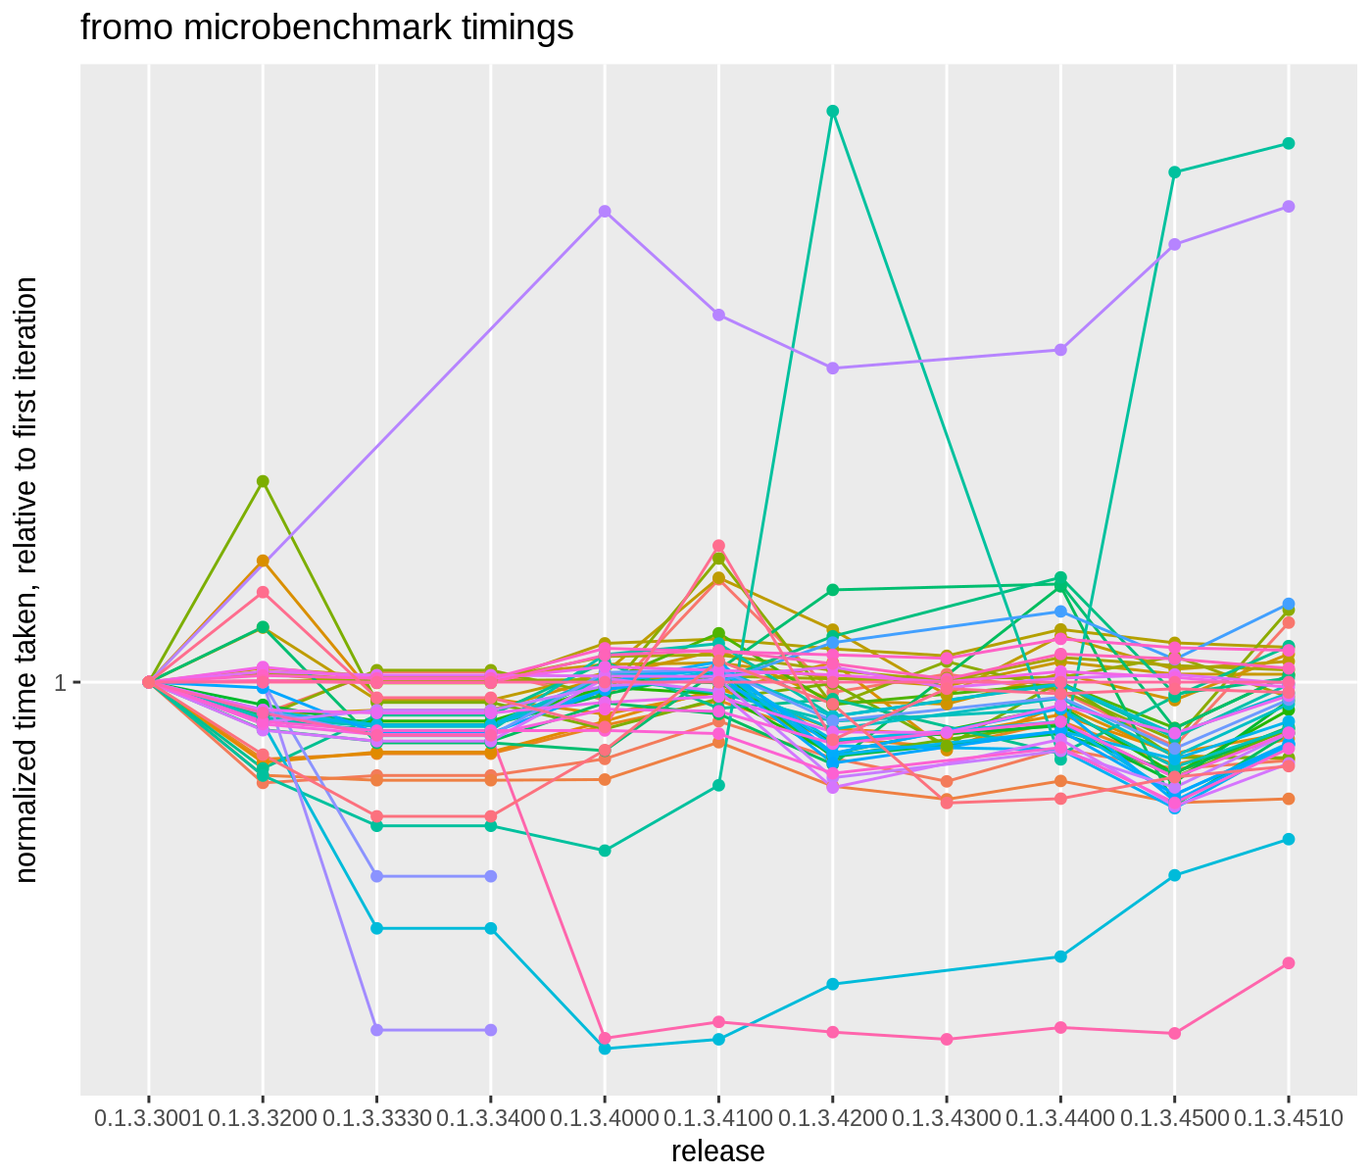
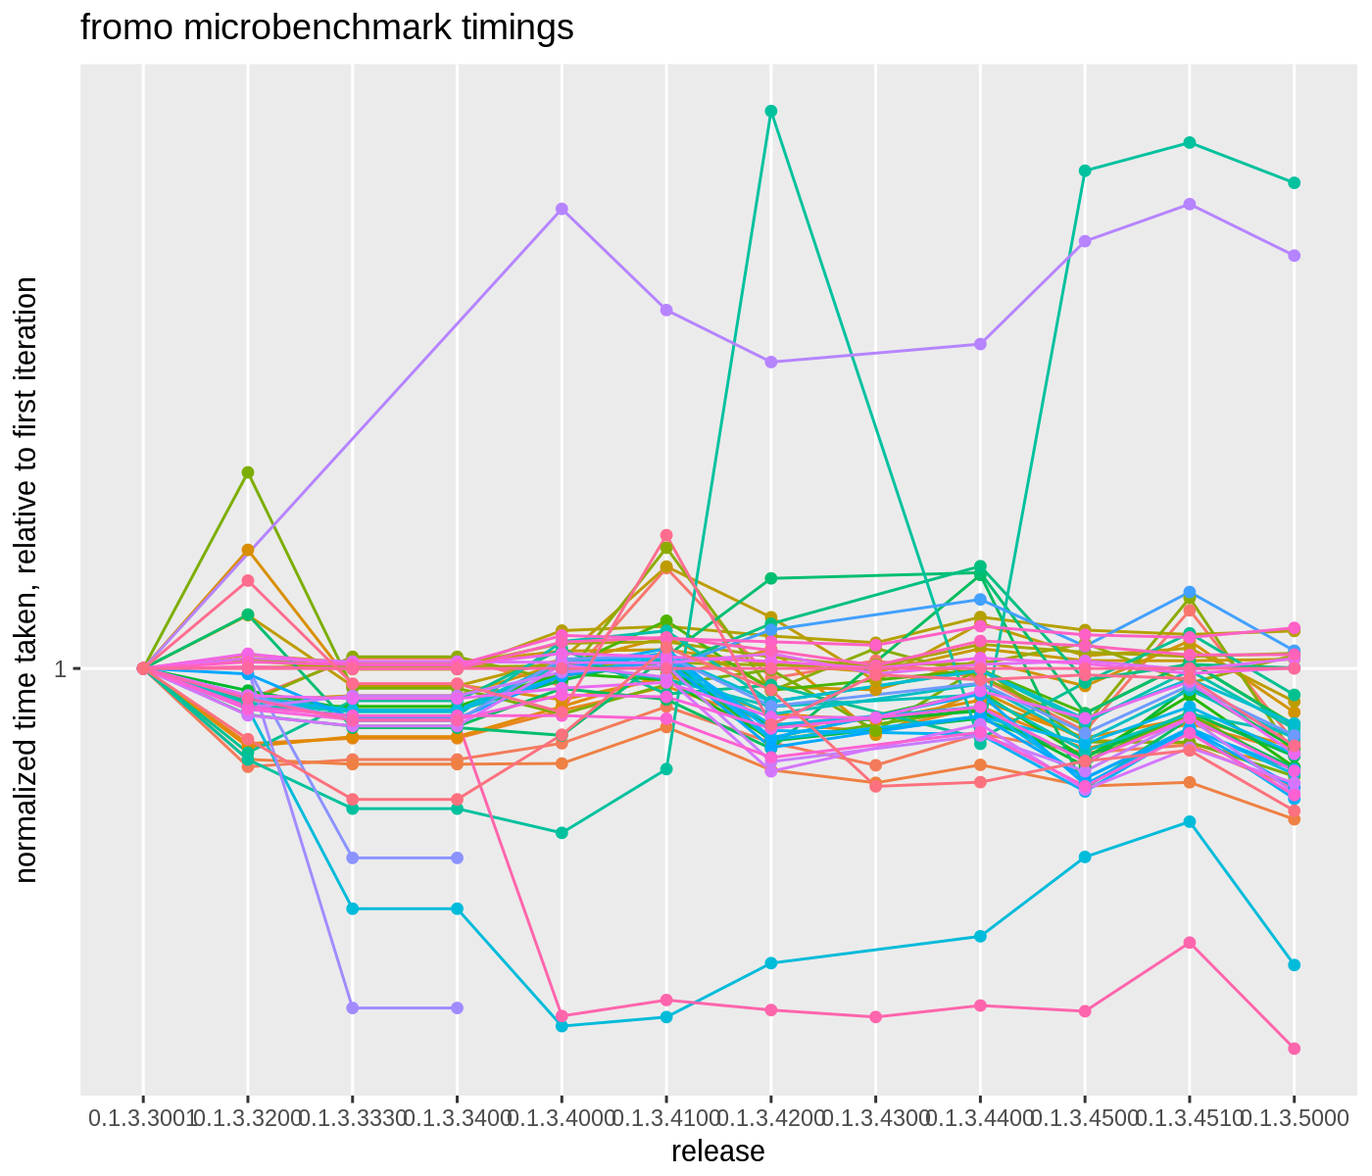
timings for object version...

diff --git a/nodist/timings.md b/nodist/timings.md
@@ -25,7 +25,7 @@ print(Sys.info())
 ##                                       sysname                                       release                                       version 
 ##                                       "Linux"                            "4.4.0-77-generic" "#98-Ubuntu SMP Wed Apr 26 08:34:02 UTC 2017" 
 ##                                      nodename                                       machine                                         login 
-##                                "28f6ec8a4353"                                      "x86_64"                                     "unknown" 
+##                                "b70aaf3783fc"                                      "x86_64"                                     "unknown" 
 ##                                          user                                effective_user 
 ##                                        "spav"                                        "spav"
 ```
@@ -49,7 +49,7 @@ print(sessionInfo())
 ## 
 ## other attached packages:
 ##  [1] RcppParallel_4.3.20    RcppRoll_0.2.2         roll_1.0.7             RollingWindow_0.2      microbenchmark_1.4-2.1 moments_0.14          
-##  [7] dplyr_0.5.0            ggplot2_2.2.1          knitr_1.15.1           fromo_0.1.3.4510      
+##  [7] dplyr_0.5.0            ggplot2_2.2.1          knitr_1.15.1           fromo_0.1.3.5000      
 ## 
 ## loaded via a namespace (and not attached):
 ##  [1] Rcpp_0.12.11     grDevices_3.3.0  assertthat_0.1   R6_2.1.2         grid_3.3.0       plyr_1.8.4       DBI_0.6-1        gtable_0.2.0     formatR_1.4     
@@ -77,16 +77,16 @@ print(checkit)
 
 ```
 ## Unit: microseconds
-##         expr   min    lq  mean median    uq   max neval    cld
-##       sum(x)    80    80    87     81    89   155   100 a     
-##      mean(x)   162   164   175    167   175   338   100 ab    
-##        sd(x)   460   466   507    486   525   855   100  b    
-##  skewness(x)  8281  8376  9011   8630  9201 12163   100    d  
-##  kurtosis(x)  8109  8209  8828   8480  9173 11952   100    d  
-##       sd3(x)   849   856   909    876   941  1083   100   c   
-##     skew4(x)  8540  8616  9128   8813  9432 12141   100    d  
-##     kurt5(x) 15406 15565 16286  15832 16509 21590   100     e 
-##     dumbk(x) 17062 17446 18644  18067 19574 23281   100      f
+##         expr   min    lq  mean median    uq   max neval     cld
+##       sum(x)    80    87    93     90    98   141   100 a      
+##      mean(x)   168   183   198    195   208   314   100 a      
+##        sd(x)   489   524   554    538   570   778   100  b     
+##  skewness(x)  8522  9123  9610   9359  9913 13839   100    d   
+##  kurtosis(x)  8191  8963  9474   9162  9716 14485   100    d   
+##       sd3(x)   862   941   981    955  1015  1224   100   c    
+##     skew4(x)  8850  9651  9930   9780 10056 11819   100     e  
+##     kurt5(x) 16020 16976 17486  17222 17585 21824   100      f 
+##     dumbk(x) 17403 18958 19935  19343 20803 25003   100       g
 ```
 
 ```r
@@ -111,9 +111,9 @@ print(checkit)
 ```
 ## Unit: microseconds
 ##                                                                          expr   min    lq  mean median    uq   max neval cld
-##  cent_moments(x, max_order = 4, wts = w, na_rm = TRUE, normalize_wts = FALSE) 16268 16590 18613  18033 19720 28964   100   c
-##                                                               sd3(x, wts = w)   981  1000  1109   1082  1149  1568   100 a  
-##                                                                 slow_sd(x, w)  1415  1563  2374   2030  3236  5290   100  b
+##  cent_moments(x, max_order = 4, wts = w, na_rm = TRUE, normalize_wts = FALSE) 16495 16622 16981  16725 17062 19797   100   c
+##                                                               sd3(x, wts = w)   980   983  1010    991  1014  1172   100 a  
+##                                                                 slow_sd(x, w)  1389  1424  2009   1494  2788  3977   100  b
 ```
 
 ```r
@@ -134,10 +134,10 @@ print(checkit)
 ```
 ## Unit: microseconds
 ##                expr  min   lq mean median   uq  max neval  cld
-##  as.centsums(x1, 1)  191  197  209    198  223  296   100  b  
-##  as.centsums(x1, 2)  114  115  125    117  130  320   100 a   
-##  as.centsums(x1, 3)  859  864  914    870  924 1216   100   c 
-##  as.centsums(x1, 4) 1504 1507 1585   1523 1559 2153   100    d
+##  as.centsums(x1, 1)  193  194  203    195  209  258   100  b  
+##  as.centsums(x1, 2)  114  115  123    117  126  309   100 a   
+##  as.centsums(x1, 3)  881  886  915    899  944 1003   100   c 
+##  as.centsums(x1, 4) 1529 1537 1583   1557 1599 1858   100    d
 ```
 
 ```r
@@ -156,7 +156,7 @@ print(checkit)
 ```
 ## Unit: microseconds
 ##           expr min lq mean median uq max neval cld
-##  c(obj1, obj2)  14 15   18     16 16 178   100   b
+##  c(obj1, obj2)  14 15   19     15 16 193   100   b
 ##  obj3 %-% obj1  11 12   14     12 13  93   100  a
 ```
 
@@ -177,9 +177,9 @@ print(checkit)
 ```
 ## Unit: microseconds
 ##                        expr min  lq mean median  uq max neval cld
-##    join_cent_sums(rs1, rs2) 2.3 2.4  2.9    2.5 2.7  27   100   a
-##  unjoin_cent_sums(rs3, rs2) 2.0 2.2  2.5    2.2 2.5  17   100   a
-##  unjoin_cent_sums(rs3, rs1) 2.0 2.2  2.5    2.3 2.5  14   100   a
+##    join_cent_sums(rs1, rs2) 2.1 2.3  2.8    2.4 2.6  25   100   a
+##  unjoin_cent_sums(rs3, rs2) 1.9 2.0  2.3    2.1 2.3  15   100   a
+##  unjoin_cent_sums(rs3, rs1) 1.9 2.0  2.3    2.1 2.3  14   100   a
 ```
 
 ```r
@@ -211,8 +211,8 @@ print(checkit)
 ```
 ## Unit: microseconds
 ##                        expr min lq mean median uq max neval cld
-##  as.centcosums(x1, max_ord)  55 59   75     66 78 228   100   b
-##             mobj3 %-% mobj1  18 21   26     23 27  70   100  a
+##  as.centcosums(x1, max_ord)  51 55   60     56 64 154   100   b
+##             mobj3 %-% mobj1  16 18   20     19 20  41   100  a
 ```
 
 ```r
@@ -273,33 +273,33 @@ print(checkit)
 ```
 ## Unit: microseconds
 ##                                                           expr   min    lq  mean median    uq    max neval         cld
-##                         silly_fun(x, wins, sum, na.rm = FALSE) 32123 33664 38030  35450 40129 111857   100          j 
-##                        silly_fun(x, wins, mean, na.rm = FALSE) 64396 66983 74071  69176 76926 159247   100           k
-##                                           running_sum(x, wins)   104   108   121    115   129    202   100 a          
-##                                          running_mean(x, wins)   105   109   148    118   130   2303   100 ab         
-##                                       roll::roll_sum(xm, wins)  1862  1938  2138   2009  2172   4060   100  bc e      
-##                                      roll::roll_mean(xm, wins)  2026  2124  2384   2209  2450   6452   100    de      
-##                                        roll::roll_sd(xm, wins)  5676  5796  6174   5883  6527   8151   100       g    
-##       RollingWindow::RollingSum(x, wins, na_method = "ignore")   359   386   654    433   568   3053   100 a cd       
-##                             RollingWindow::RollingSum(x, wins)   110   131  1019    160   205  76877   100 a cd       
-##                            RollingWindow::RollingMean(x, wins)   141   157   279    197   245   2571   100 a c        
-##                             RollingWindow::RollingStd(x, wins)   225   251   395    286   328   2586   100 a cd       
-##   RcppRoll::roll_sum(xm, n = wins, align = "right", fill = NA)  1750  1945  2150   2020  2257   4974   100   c e      
-##  RcppRoll::roll_mean(xm, n = wins, align = "right", fill = NA)  1730  1977  2120   2038  2255   4136   100  bc e      
-##    RcppRoll::roll_sd(xm, n = wins, align = "right", fill = NA) 10368 11042 12463  12605 13183  20783   100        h   
-##    running_sd(x, wins, na_rm = FALSE, restart_period = 50000L)   355   361   417    390   413   2248   100 a cd       
-##      running_sd(x, wins, na_rm = TRUE, restart_period = 1000L)   410   425   481    452   489    855   100 a cd       
-##                                           running_sd3(x, wins)   586   597   668    638   682   1276   100 a cd       
-##                                          running_skew(x, wins)  3631  3684  4091   3831  4257   5866   100     ef     
-##                                         running_skew4(x, wins)  3639  3683  4047   3789  4091   7580   100     ef     
-##                                          running_kurt(x, wins)  5320  5367  5889   5473  6215   9933   100      fg    
-##                                         running_kurt5(x, wins)  5949  6017  6507   6154  6626  10240   100       g    
-##                                         running_tstat(x, wins)   620   638   731    676   720   3376   100 a cd       
-##                                       running_zscored(x, wins)   625   631   698    659   709   1250   100 a cd       
-##                                        running_sharpe(x, wins)   620   628   706    674   716   1274   100 a cd       
-##                                    running_apx_median(x, wins) 13901 14181 15592  15034 16280  24211   100         i  
-##                                      running_centered(x, wins)   549   555   608    589   626    885   100 a cd       
-##                                        running_scaled(x, wins)   621   629   694    657   713   1201   100 a cd
+##                         silly_fun(x, wins, sum, na.rm = FALSE) 32568 33038 35422  34956 35765 109978   100          j 
+##                        silly_fun(x, wins, mean, na.rm = FALSE) 64438 65544 70321  67541 68981 149314   100           k
+##                                           running_sum(x, wins)   105   108   115    111   120    165   100 a          
+##                                          running_mean(x, wins)   104   108   115    111   119    153   100 a          
+##                                       roll::roll_sum(xm, wins)  1897  1937  2046   1977  2037   4224   100   cd       
+##                                      roll::roll_mean(xm, wins)  2064  2103  2225   2161  2219   4403   100    de      
+##                                        roll::roll_sd(xm, wins)  5719  5785  5981   5849  5906   9198   100       g    
+##       RollingWindow::RollingSum(x, wins, na_method = "ignore")   367   391   609    410   450   2984   100 a  d       
+##                             RollingWindow::RollingSum(x, wins)   118   137   995    156   185  78855   100 a  d       
+##                            RollingWindow::RollingMean(x, wins)   146   167   259    183   225   2489   100 ab         
+##                             RollingWindow::RollingStd(x, wins)   230   255   417    270   319   2743   100 abc        
+##   RcppRoll::roll_sum(xm, n = wins, align = "right", fill = NA)  1747  1840  1961   1957  2011   2379   100  b d       
+##  RcppRoll::roll_mean(xm, n = wins, align = "right", fill = NA)  1734  1982  1999   2025  2053   2359   100  b d       
+##    RcppRoll::roll_sd(xm, n = wins, align = "right", fill = NA) 10298 10691 11579  11170 12652  14668   100        h   
+##    running_sd(x, wins, na_rm = FALSE, restart_period = 50000L)   356   362   401    370   392   2525   100 abc        
+##      running_sd(x, wins, na_rm = TRUE, restart_period = 1000L)   416   423   441    430   452    651   100 abc        
+##                                           running_sd3(x, wins)   597   607   652    622   647   2815   100 a  d       
+##                                          running_skew(x, wins)  3680  3698  3837   3752  3845   5757   100     e      
+##                                         running_skew4(x, wins)  3693  3731  3869   3768  3909   6130   100     ef     
+##                                          running_kurt(x, wins)  5389  5443  5649   5502  5743   7684   100      fg    
+##                                         running_kurt5(x, wins)  6012  6053  6299   6117  6393   8775   100       g    
+##                                         running_tstat(x, wins)   628   637   662    648   676    788   100 a  d       
+##                                       running_zscored(x, wins)   631   639   689    651   676   2990   100 a  d       
+##                                        running_sharpe(x, wins)   626   633   663    647   682    829   100 a  d       
+##                                    running_apx_median(x, wins) 14042 14167 14641  14261 14838  17958   100         i  
+##                                      running_centered(x, wins)   587   594   620    604   637    748   100 a  d       
+##                                        running_scaled(x, wins)   627   636   669    654   686    850   100 a  d
 ```
 
 ```r
@@ -371,55 +371,55 @@ allt %>% select(-sernum, -relchange, -meantime, -sumx_time,
 
 |expr                                                                         | first_norm| last_norm| last_status|
 |:----------------------------------------------------------------------------|----------:|---------:|-----------:|
-|RollingWindow::RollingSum(x, wins)                                           |       3.72|     11.66|        3.14|
-|running_sum(x, wins)                                                         |       0.51|      1.39|        2.74|
-|running_skew(x, wins)                                                        |      39.66|     46.83|        1.18|
-|mobj3 %-% mobj1                                                              |       0.26|      0.30|        1.17|
-|as.centcosums(x1, max_ord)                                                   |       0.75|      0.85|        1.13|
-|RollingWindow::RollingSum(x, wins, na_method = "ignore")                     |       6.93|      7.48|        1.08|
-|kurt5(x)                                                                     |     173.12|    186.41|        1.08|
-|skew4(x)                                                                     |      97.66|    104.48|        1.07|
-|cent_moments(x, max_order = 4, wts = w, na_rm = TRUE, normalize_wts = FALSE) |     200.65|    213.04|        1.06|
-|join_cent_sums(rs1, rs2)                                                     |       0.03|      0.03|        1.05|
-|skewness(x)                                                                  |     100.16|    103.15|        1.03|
-|kurtosis(x)                                                                  |      98.46|    101.05|        1.03|
-|dumbk(x)                                                                     |     209.85|    213.40|        1.02|
-|RollingWindow::RollingMean(x, wins)                                          |       3.15|      3.19|        1.02|
-|RcppRoll::roll_sd(xm, n = wins, align = "right", fill = NA)                  |     140.59|    142.65|        1.01|
-|RollingWindow::RollingStd(x, wins)                                           |       4.48|      4.52|        1.01|
+|RollingWindow::RollingSum(x, wins)                                           |       3.72|     10.68|        2.87|
+|running_sum(x, wins)                                                         |       0.51|      1.24|        2.45|
+|skew4(x)                                                                     |      97.66|    106.66|        1.09|
+|kurt5(x)                                                                     |     173.12|    187.82|        1.08|
+|running_skew(x, wins)                                                        |      39.66|     41.21|        1.04|
+|kurtosis(x)                                                                  |      98.46|    101.76|        1.03|
+|skewness(x)                                                                  |     100.16|    103.22|        1.03|
+|mean(x)                                                                      |       2.07|      2.13|        1.03|
+|sd(x)                                                                        |       5.82|      5.95|        1.02|
+|dumbk(x)                                                                     |     209.85|    214.12|        1.02|
+|sd3(x)                                                                       |      10.52|     10.54|        1.00|
+|RollingWindow::RollingStd(x, wins)                                           |       4.48|      4.48|        1.00|
 |sum(x)                                                                       |       1.00|      1.00|        1.00|
-|sd(x)                                                                        |       5.82|      5.81|        1.00|
-|running_apx_median(x, wins)                                                  |     179.28|    178.47|        1.00|
-|sd3(x)                                                                       |      10.52|     10.41|        0.99|
-|unjoin_cent_sums(rs3, rs1)                                                   |       0.03|      0.03|        0.98|
-|running_kurt5(x, wins)                                                       |      76.25|     74.48|        0.98|
-|sd3(x, wts = w)                                                              |      13.06|     12.69|        0.97|
-|mean(x)                                                                      |       2.07|      2.00|        0.97|
-|running_skew4(x, wins)                                                       |      48.07|     46.32|        0.96|
-|roll::roll_mean(xm, wins)                                                    |      28.39|     27.29|        0.96|
-|running_kurt(x, wins)                                                        |      70.61|     67.40|        0.95|
-|RcppRoll::roll_sum(xm, n = wins, align = "right", fill = NA)                 |      26.10|     24.61|        0.94|
-|running_sd(x, wins, na_rm = FALSE, restart_period = 50000L)                  |       5.19|      4.78|        0.92|
-|roll::roll_sd(xm, wins)                                                      |      77.75|     70.67|        0.91|
-|running_centered(x, wins)                                                    |       7.68|      6.95|        0.91|
-|RcppRoll::roll_mean(xm, n = wins, align = "right", fill = NA)                |      26.80|     24.26|        0.91|
-|silly_fun(x, wins, mean, na.rm = FALSE)                                      |     943.85|    847.82|        0.90|
-|as.centsums(x1, 4)                                                           |      20.20|     18.14|        0.90|
-|running_tstat(x, wins)                                                       |       9.32|      8.36|        0.90|
-|roll::roll_sum(xm, wins)                                                     |      27.28|     24.47|        0.90|
-|as.centsums(x1, 3)                                                           |      11.79|     10.46|        0.89|
-|running_scaled(x, wins)                                                      |       9.03|      7.94|        0.88|
-|running_sd3(x, wins)                                                         |       8.72|      7.65|        0.88|
-|running_sharpe(x, wins)                                                      |       9.22|      8.08|        0.88|
-|running_sd(x, wins, na_rm = TRUE, restart_period = 1000L)                    |       6.29|      5.51|        0.87|
-|silly_fun(x, wins, sum, na.rm = FALSE)                                       |     501.06|    435.29|        0.87|
-|obj3 %-% obj1                                                                |       0.19|      0.16|        0.85|
-|c(obj1, obj2)                                                                |       0.25|      0.21|        0.85|
-|as.centsums(x1, 1)                                                           |       2.83|      2.40|        0.85|
-|running_zscored(x, wins)                                                     |       9.49|      7.99|        0.84|
-|unjoin_cent_sums(rs3, rs2)                                                   |       0.03|      0.03|        0.84|
-|as.centsums(x1, 2)                                                           |       1.83|      1.43|        0.78|
-|running_mean(x, wins)                                                        |       2.36|      1.69|        0.72|
+|RollingWindow::RollingSum(x, wins, na_method = "ignore")                     |       6.93|      6.54|        0.94|
+|join_cent_sums(rs1, rs2)                                                     |       0.03|      0.03|        0.93|
+|cent_moments(x, max_order = 4, wts = w, na_rm = TRUE, normalize_wts = FALSE) |     200.65|    182.39|        0.91|
+|running_kurt5(x, wins)                                                       |      76.25|     67.66|        0.89|
+|RcppRoll::roll_sd(xm, n = wins, align = "right", fill = NA)                  |     140.59|    124.37|        0.88|
+|RollingWindow::RollingMean(x, wins)                                          |       3.15|      2.78|        0.88|
+|running_apx_median(x, wins)                                                  |     179.28|    157.26|        0.88|
+|running_centered(x, wins)                                                    |       7.68|      6.66|        0.87|
+|running_skew4(x, wins)                                                       |      48.07|     41.55|        0.86|
+|running_kurt(x, wins)                                                        |      70.61|     60.67|        0.86|
+|as.centcosums(x1, max_ord)                                                   |       0.75|      0.64|        0.85|
+|unjoin_cent_sums(rs3, rs1)                                                   |       0.03|      0.02|        0.85|
+|as.centsums(x1, 4)                                                           |      20.20|     17.01|        0.84|
+|roll::roll_mean(xm, wins)                                                    |      28.39|     23.90|        0.84|
+|as.centsums(x1, 3)                                                           |      11.79|      9.83|        0.83|
+|sd3(x, wts = w)                                                              |      13.06|     10.85|        0.83|
+|running_sd(x, wins, na_rm = FALSE, restart_period = 50000L)                  |       5.19|      4.31|        0.83|
+|mobj3 %-% mobj1                                                              |       0.26|      0.21|        0.83|
+|roll::roll_sd(xm, wins)                                                      |      77.75|     64.24|        0.83|
+|RcppRoll::roll_sum(xm, n = wins, align = "right", fill = NA)                 |      26.10|     21.06|        0.81|
+|c(obj1, obj2)                                                                |       0.25|      0.20|        0.81|
+|roll::roll_sum(xm, wins)                                                     |      27.28|     21.98|        0.81|
+|running_sd3(x, wins)                                                         |       8.72|      7.00|        0.80|
+|RcppRoll::roll_mean(xm, n = wins, align = "right", fill = NA)                |      26.80|     21.47|        0.80|
+|silly_fun(x, wins, mean, na.rm = FALSE)                                      |     943.85|    755.31|        0.80|
+|running_scaled(x, wins)                                                      |       9.03|      7.18|        0.79|
+|obj3 %-% obj1                                                                |       0.19|      0.15|        0.79|
+|running_zscored(x, wins)                                                     |       9.49|      7.40|        0.78|
+|running_sharpe(x, wins)                                                      |       9.22|      7.12|        0.77|
+|as.centsums(x1, 1)                                                           |       2.83|      2.18|        0.77|
+|running_tstat(x, wins)                                                       |       9.32|      7.11|        0.76|
+|silly_fun(x, wins, sum, na.rm = FALSE)                                       |     501.06|    380.47|        0.76|
+|running_sd(x, wins, na_rm = TRUE, restart_period = 1000L)                    |       6.29|      4.74|        0.75|
+|unjoin_cent_sums(rs3, rs2)                                                   |       0.03|      0.02|        0.73|
+|as.centsums(x1, 2)                                                           |       1.83|      1.32|        0.72|
 |running_sum(x, wins, robust = FALSE)                                         |       0.63|      0.42|        0.66|
+|running_mean(x, wins)                                                        |       2.36|      1.24|        0.52|
 
 
